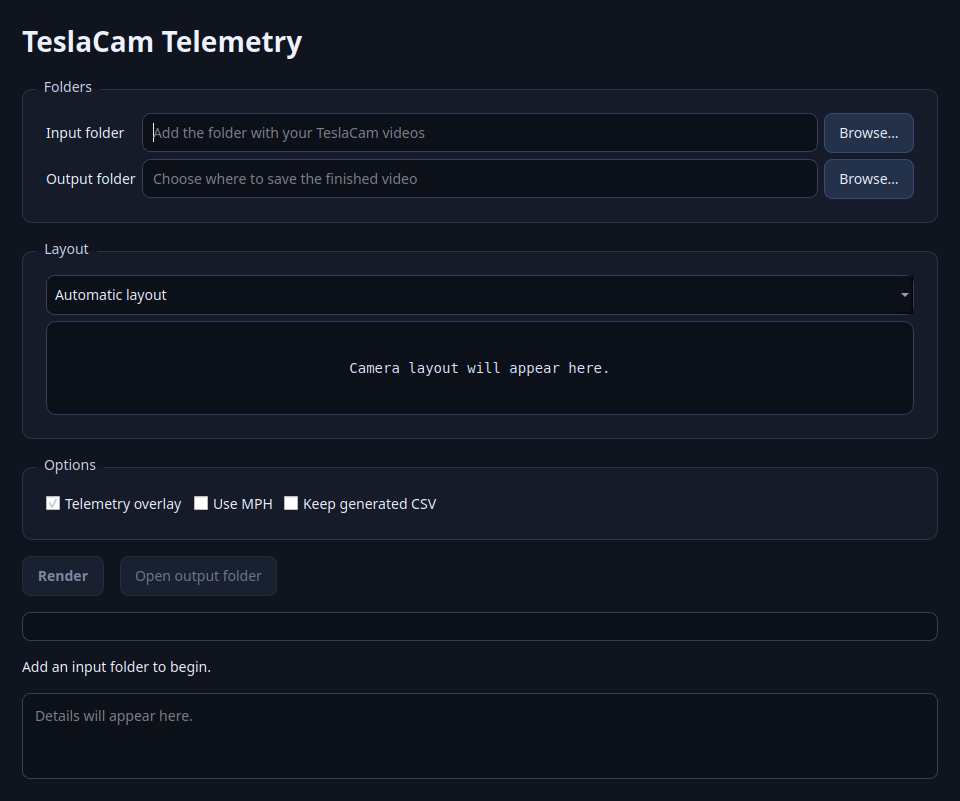
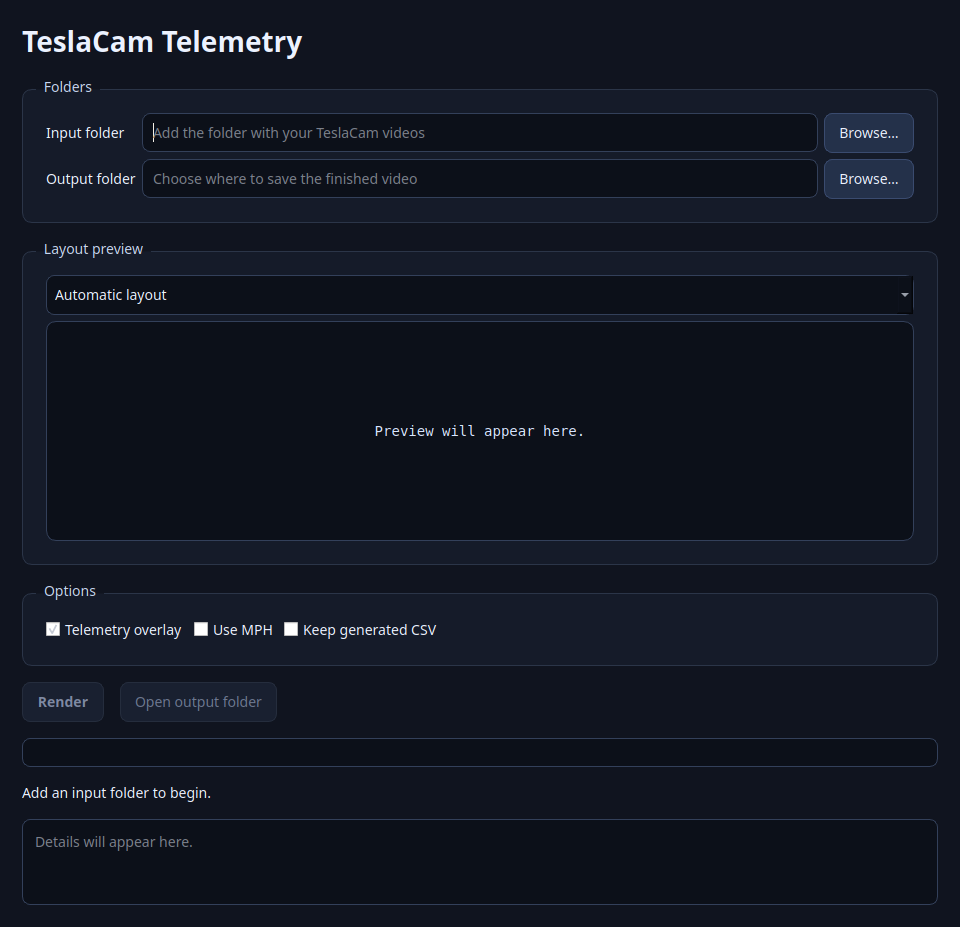
Add basic desktop preview

diff --git a/modules/app_service.py b/modules/app_service.py
@@ -1,15 +1,26 @@
 from __future__ import annotations
 
 from dataclasses import dataclass, field
+from typing import Any, Callable
 import platform
 from pathlib import Path
 import tempfile
-from typing import Callable
+
+import cv2 as cv
+import numpy as np
 
 from modules import data_handler
 from modules import layouts
 from modules import video_processor
 from modules.settings import RenderSettings
+
+
+@dataclass(frozen=True)
+class PreviewFrame:
+    """Still preview image composed from the first detected clip group."""
+
+    timestamp: str
+    image_rgb: Any
 
 
 @dataclass(frozen=True)
@@ -24,6 +35,7 @@ class ScanResult:
     telemetry_file_count: int = 0
     warnings: list[str] = field(default_factory=list)
     errors: list[str] = field(default_factory=list)
+    preview_frame: PreviewFrame | None = None
 
     @property
     def is_ready(self) -> bool:
@@ -228,6 +240,42 @@ def scan_input_folder(input_path: Path, settings: RenderSettings | None = None) 
         warnings=warnings,
         errors=errors,
     )
+
+
+def build_preview_frame(scan_result: ScanResult) -> PreviewFrame | None:
+    """Return a still layout preview for the first detected clip group, if possible."""
+    if not scan_result.is_ready or scan_result.layout is None or not scan_result.video_data:
+        return None
+
+    timestamp = sorted(scan_result.video_data.keys())[0]
+    files_info = scan_result.video_data[timestamp]
+    captures = {}
+
+    try:
+        captures = video_processor.open_captures(
+            scan_result.input_path,
+            files_info,
+            scan_result.layout,
+        )
+        frames = {}
+        for camera_key in scan_result.layout["required_cameras"]:
+            ok, frame = captures[camera_key].read()
+            if not ok:
+                return None
+            frames[camera_key] = frame
+
+        canvas = np.zeros(
+            (video_processor.CANVAS_HEIGHT, video_processor.CANVAS_WIDTH, 3),
+            dtype=np.uint8,
+        )
+        preview_bgr = layouts.render_layout(canvas, frames, scan_result.layout)
+        preview_rgb = cv.cvtColor(preview_bgr, cv.COLOR_BGR2RGB)
+        return PreviewFrame(timestamp=timestamp, image_rgb=preview_rgb)
+    except (Exception, SystemExit):
+        return None
+    finally:
+        if captures:
+            video_processor.release_captures(captures)
 
 
 def render_video(

diff --git a/tests/test_app_service.py b/tests/test_app_service.py
@@ -3,6 +3,8 @@ from pathlib import Path
 from tempfile import TemporaryDirectory
 from unittest.mock import patch
 
+import numpy as np
+
 from modules import app_service
 from modules import layouts
 from modules.settings import RenderSettings
@@ -124,6 +126,44 @@ class TestScanInputFolder(unittest.TestCase):
             )
 
 
+class TestBuildPreviewFrame(unittest.TestCase):
+    def test_returns_none_when_scan_is_not_ready(self):
+        scan = app_service.ScanResult(input_path=Path("/input"))
+
+        self.assertIsNone(app_service.build_preview_frame(scan))
+
+    def test_builds_preview_from_first_clip_group(self):
+        scan = app_service.ScanResult(
+            input_path=Path("/input"),
+            video_data={
+                TIMESTAMP: {camera: f"{TIMESTAMP}-{camera}.mp4" for camera in FOUR_CAMERAS},
+            },
+            layout=layouts.FOUR_CAMERA_DEFAULT,
+            camera_set="four-camera",
+            clip_group_count=1,
+        )
+        captures = {
+            camera: _FakeCapture(np.full((4, 4, 3), index + 1, dtype=np.uint8))
+            for index, camera in enumerate(FOUR_CAMERAS)
+        }
+
+        with patch("modules.video_processor.open_captures", return_value=captures) as open_captures, patch(
+            "modules.video_processor.release_captures"
+        ) as release_captures:
+            preview = app_service.build_preview_frame(scan)
+
+        self.assertIsNotNone(preview)
+        assert preview is not None
+        self.assertEqual(preview.timestamp, TIMESTAMP)
+        self.assertEqual(preview.image_rgb.shape, (720, 1280, 3))
+        open_captures.assert_called_once_with(
+            Path("/input"),
+            scan.video_data[TIMESTAMP],
+            layouts.FOUR_CAMERA_DEFAULT,
+        )
+        release_captures.assert_called_once_with(captures)
+
+
 class TestFormatScanSummary(unittest.TestCase):
     def test_formats_ready_scan_summary(self):
         scan = app_service.ScanResult(
@@ -211,6 +251,14 @@ class TestRenderVideo(unittest.TestCase):
             self.assertEqual(progress_updates[0].clip_index, 1)
             self.assertEqual(progress_updates[0].clip_count, 1)
             self.assertEqual(progress_updates[0].total_frames, 3)
+
+
+class _FakeCapture:
+    def __init__(self, frame):
+        self.frame = frame
+
+    def read(self):
+        return True, self.frame
 
 
 class _FakeWriter:

diff --git a/desktop_ui.py b/desktop_ui.py
@@ -1,6 +1,7 @@
 from __future__ import annotations
 
 import argparse
+from dataclasses import replace
 import sys
 from pathlib import Path
 
@@ -22,7 +23,7 @@ def build_parser() -> argparse.ArgumentParser:
 
 def _load_qt():
     from PySide6.QtCore import QDir, QObject, QThread, Qt, QUrl, Signal, Slot
-    from PySide6.QtGui import QDesktopServices, QFont
+    from PySide6.QtGui import QDesktopServices, QFont, QImage, QPixmap
     from PySide6.QtWidgets import (
         QApplication,
         QCheckBox,
@@ -54,6 +55,8 @@ def _load_qt():
         "Slot": Slot,
         "QDesktopServices": QDesktopServices,
         "QFont": QFont,
+        "QImage": QImage,
+        "QPixmap": QPixmap,
         "QApplication": QApplication,
         "QCheckBox": QCheckBox,
         "QComboBox": QComboBox,
@@ -85,6 +88,8 @@ def create_main_window(qt: dict[str, object]):
     Slot = qt["Slot"]
     QDesktopServices = qt["QDesktopServices"]
     QFont = qt["QFont"]
+    QImage = qt["QImage"]
+    QPixmap = qt["QPixmap"]
     QCheckBox = qt["QCheckBox"]
     QComboBox = qt["QComboBox"]
     QFileDialog = qt["QFileDialog"]
@@ -124,7 +129,11 @@ def create_main_window(qt: dict[str, object]):
                 settings = ui_helpers.build_settings_from_options(self.options)
                 if self.action == "scan":
                     self.log.emit(f"Checking {self.input_path} ...")
-                    self.scan_finished.emit(app_service.scan_input_folder(self.input_path, settings))
+                    scan_result = app_service.scan_input_folder(self.input_path, settings)
+                    preview_frame = app_service.build_preview_frame(scan_result)
+                    if preview_frame is not None:
+                        scan_result = replace(scan_result, preview_frame=preview_frame)
+                    self.scan_finished.emit(scan_result)
                 else:
                     if self.output_path is None:
                         raise ValueError("Output folder is required.")
@@ -192,7 +201,7 @@ def create_main_window(qt: dict[str, object]):
             paths_layout.addWidget(output_browse, 1, 2)
             main_layout.addWidget(paths_group)
 
-            layout_group = QGroupBox("Layout")
+            layout_group = QGroupBox("Layout preview")
             layout_box = QVBoxLayout(layout_group)
             self.layout_combo = QComboBox()
             self.layout_combo.setPlaceholderText("Automatic layout")
@@ -202,7 +211,7 @@ def create_main_window(qt: dict[str, object]):
             self.diagram_label.setObjectName("Diagram")
             self.diagram_label.setFrameShape(QFrame.Shape.StyledPanel)
             self.diagram_label.setAlignment(Qt.AlignmentFlag.AlignCenter)
-            self.diagram_label.setMinimumHeight(94)
+            self.diagram_label.setMinimumHeight(220)
             self.diagram_label.setFont(QFont("monospace"))
             layout_box.addWidget(self.layout_combo)
             layout_box.addWidget(self.diagram_label)
@@ -293,12 +302,40 @@ def create_main_window(qt: dict[str, object]):
                 self.output_edit.setText(self._native_path_text(folder))
 
         def _update_layout_diagram(self, label: str):
+            self.diagram_label.setPixmap(QPixmap())
+            self.diagram_label.setToolTip("")
             self.diagram_label.setText(ui_helpers.layout_diagram(ui_helpers.layout_for_display_name(label)))
 
         def _show_layout_placeholder(self):
             self.layout_combo.clear()
             self.layout_combo.setPlaceholderText("Automatic layout")
+            self.diagram_label.setPixmap(QPixmap())
+            self.diagram_label.setToolTip("")
             self.diagram_label.setText(ui_helpers.layout_diagram(None))
+
+        def _show_preview_frame(self, preview_frame: app_service.PreviewFrame):
+            image = preview_frame.image_rgb
+            height, width, channels = image.shape
+            if channels != 3:
+                return
+            qimage = QImage(
+                image.data,
+                width,
+                height,
+                channels * width,
+                QImage.Format.Format_RGB888,
+            ).copy()
+            pixmap = QPixmap.fromImage(qimage)
+            target_size = self.diagram_label.size()
+            if target_size.width() > 0 and target_size.height() > 0:
+                pixmap = pixmap.scaled(
+                    target_size,
+                    Qt.AspectRatioMode.KeepAspectRatio,
+                    Qt.TransformationMode.SmoothTransformation,
+                )
+            self.diagram_label.setText("")
+            self.diagram_label.setPixmap(pixmap)
+            self.diagram_label.setToolTip(f"Preview from {preview_frame.timestamp}")
 
         def _append_log(self, message: str):
             self.log_panel.append(message)
@@ -438,6 +475,8 @@ def create_main_window(qt: dict[str, object]):
                     self._update_layout_diagram(label)
             else:
                 self._show_layout_placeholder()
+            if scan_result.preview_frame is not None:
+                self._show_preview_frame(scan_result.preview_frame)
             summary = ui_helpers.format_scan_summary_for_ui(scan_result)
             self._append_log(summary)
             if self._mp4_output_supported:

diff --git a/tests/test_desktop_ui.py b/tests/test_desktop_ui.py
@@ -3,6 +3,8 @@ import unittest
 from pathlib import Path
 from unittest.mock import patch
 
+import numpy as np
+
 from modules import app_service, layouts
 
 
@@ -42,7 +44,7 @@ class TestDesktopUiLayoutState(unittest.TestCase):
         self.assertEqual(window.layout_combo.count(), 0)
         self.assertEqual(window.layout_combo.currentText(), "")
         self.assertEqual(window.layout_combo.placeholderText(), "Automatic layout")
-        self.assertIn("Camera layout", window.diagram_label.text())
+        self.assertIn("Preview", window.diagram_label.text())
         self.assertEqual(window.status_label.text(), "Add an input folder to begin.")
         self.assertEqual(window.layout_combo.toolTip(), "")
         self.assertEqual(window.diagram_label.toolTip(), "")
@@ -68,6 +70,32 @@ class TestDesktopUiLayoutState(unittest.TestCase):
         self.assertEqual(window.status_label.text(), "Ready to render.")
         self.assertEqual(window.progress.value(), 0)
         self.assertTrue(window.render_button.isEnabled())
+
+    def test_scan_result_shows_preview_frame_when_available(self):
+        with patch_supported_codec():
+            window = self.MainWindow()
+        window.input_edit.setText("/input")
+        window.output_edit.setText("/output")
+        preview = app_service.PreviewFrame(
+            timestamp="2026-06-19_23-08-01",
+            image_rgb=np.zeros((720, 1280, 3), dtype=np.uint8),
+        )
+        scan = app_service.ScanResult(
+            input_path=Path("/input"),
+            layout=layouts.FOUR_CAMERA_DEFAULT,
+            camera_set="four-camera",
+            clip_group_count=1,
+            preview_frame=preview,
+        )
+
+        window._on_scan_finished(scan)
+
+        pixmap = window.diagram_label.pixmap()
+        self.assertIsNotNone(pixmap)
+        assert pixmap is not None
+        self.assertFalse(pixmap.isNull())
+        self.assertEqual(window.diagram_label.text(), "")
+        self.assertIn("2026-06-19_23-08-01", window.diagram_label.toolTip())
 
     def test_launch_warns_when_mp4_codec_is_missing(self):
         warnings = []

diff --git a/modules/ui_helpers.py b/modules/ui_helpers.py
@@ -66,7 +66,7 @@ def camera_display_name(camera_key: str) -> str:
 def layout_diagram(layout: layouts.LayoutConfig | None) -> str:
     """Return a compact text diagram for the selected layout."""
     if layout is None:
-        return "Camera layout will appear here."
+        return "Preview will appear here."
 
     if layout["required_cameras"] == layouts.SIX_CAMERA_KEYS:
         return "[ Left pillar ] [    Front    ] [ Right pillar ]\n[ Left repeater ] [    Rear     ] [ Right repeater ]"

diff --git a/README.md b/README.md
@@ -125,13 +125,14 @@ teslacam-telemetry-ui
 Basic workflow:
 
 1. Add the folder with your TeslaCam videos.
-2. Choose where to save the finished video.
-3. Select render options:
+2. Check the detected layout preview.
+3. Choose where to save the finished video.
+4. Select render options:
    * **Telemetry overlay**: Adds speed, gear, steering, pedal, and driving-state data when telemetry is available.
    * **Use MPH**: Shows speed in MPH instead of KM/H.
    * **Keep generated CSV**: Keeps telemetry CSV files generated from embedded SEI metadata.
-4. Click **Render**.
-5. When rendering completes, click **Open output folder** to view the finished video.
+5. Click **Render**.
+6. When rendering completes, click **Open output folder** to view the finished video.
 
 After you add an input folder, the app detects the available cameras and selects the matching layout:
 
@@ -160,7 +161,7 @@ teslacam-telemetry-ui --input /path/to/teslacam/clips --output /path/to/save/vid
 ## Future Roadmap
 Planned priorities:
 
-* **Windows app download**: Provide a packaged `.exe` or portable ZIP so you do not need to install Python manually.
+* **Packaged app polish**: Keep improving Windows/macOS downloads, signing, and first-run guidance.
 * **Layout choices**: Add friendly layout options such as **Four-camera standard**, **Six-camera grid**, **Front focus**, and **Balanced grid**.
 * **Clip selection**: Show detected clip groups so you can render everything, selected clips, or a time range.
 * **Render presets**: Add simple quality choices such as fast preview, standard quality, high quality, and smaller shareable files.